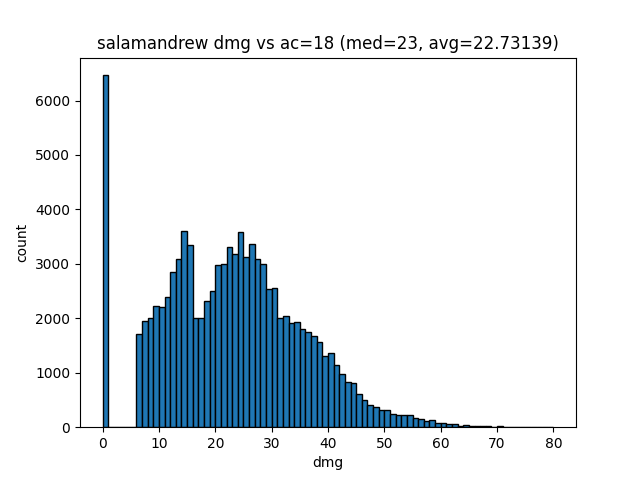
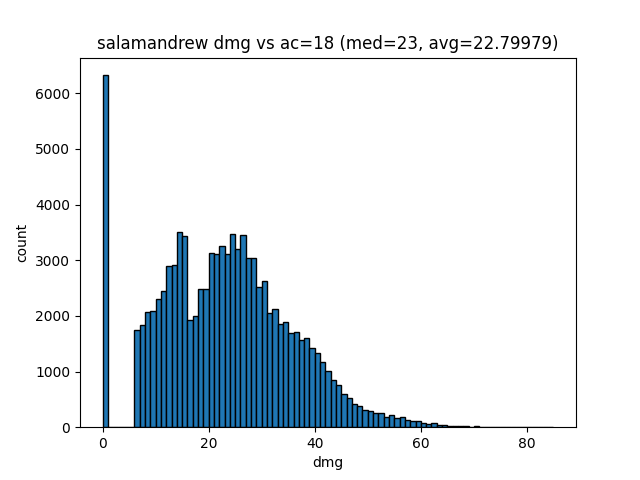
update

diff --git a/ragebot3000.py b/ragebot3000.py
@@ -4,7 +4,7 @@ import matplotlib.pyplot
 import dnd
 import dnd_stats
 
-def _inf_axe_attack(hit_dc, enemy_ac, indent, advantage=False, verbose=True):
+def inf_axe_attack(hit_dc, enemy_ac, indent, advantage=False, verbose=True):
 
     # Infinity Axe key stats
     die_rank = 12
@@ -37,8 +37,10 @@ def _inf_axe_attack(hit_dc, enemy_ac, indent, advantage=False, verbose=True):
         tot_dmg += thread_dmg
     return tot_dmg
 
-def inf_axe_attack(hit_dc, enemy_ac, advantage=False, verbose=True):
-    tot_dmg = _inf_axe_attack(hit_dc, enemy_ac, '', advantage=advantage, verbose=verbose)
+def ragebot3000_attack(attacks, hit_dc, enemy_ac, advantage=False, verbose=True):
+    tot_dmg = 0
+    for _ in range(attacks):
+        tot_dmg += inf_axe_attack(hit_dc, enemy_ac, '', advantage=advantage, verbose=verbose)
     dnd.log(f"TOTAL DMG: {tot_dmg}", verbose)
     return tot_dmg
 
@@ -54,6 +56,7 @@ def get_log_bins():
 
 def run_simulations():
     enemy_acs = range(15,22)
+    attacks = 2
     hit_dc = 9
     advantage = True
     trials = 100
@@ -64,7 +67,7 @@ def run_simulations():
     for enemy_ac in enemy_acs:
         data = []
         for _ in range(trials):
-            data.append(inf_axe_attack(hit_dc, enemy_ac, advantage=advantage, verbose=verbose))
+            data.append(ragebot3000_attack(attacks, hit_dc, enemy_ac, advantage=advantage, verbose=verbose))
             dnd.log("************", verbose)
 
         data = sorted(data)
@@ -86,8 +89,8 @@ def run_simulations():
         ax.set_xscale('log')
         ax.set_ylabel('count')
         ax.set_xlabel('dmg')
-        ax.set_title(f"infinity axe dmg vs ac={enemy_ac} (med={median}, avg={average})")
-        matplotlib.pyplot.savefig(f"./data/inf/ac_{enemy_ac}.png")
+        ax.set_title(f"ragebot3000 dmg vs ac={enemy_ac} (med={median}, avg={average})")
+        matplotlib.pyplot.savefig(f"./data/bot/ac_{enemy_ac}.png")
 
         # count vs log(dmg), normal scale
         _, ax = matplotlib.pyplot.subplots()
@@ -96,7 +99,7 @@ def run_simulations():
         ax.locator_params(axis="x", integer=True)
         ax.set_ylabel('count')
         ax.set_xlabel('log(dmg)')
-        ax.set_title(f"infinity axe log(dmg) vs ac={enemy_ac} (med={median}, avg={average})")
-        matplotlib.pyplot.savefig(f"./data/inf/ac_{enemy_ac}_log.png")
+        ax.set_title(f"ragebot3000 log(dmg) vs ac={enemy_ac} (med={median}, avg={average})")
+        matplotlib.pyplot.savefig(f"./data/bot/ac_{enemy_ac}_log.png")
 
 run_simulations()
